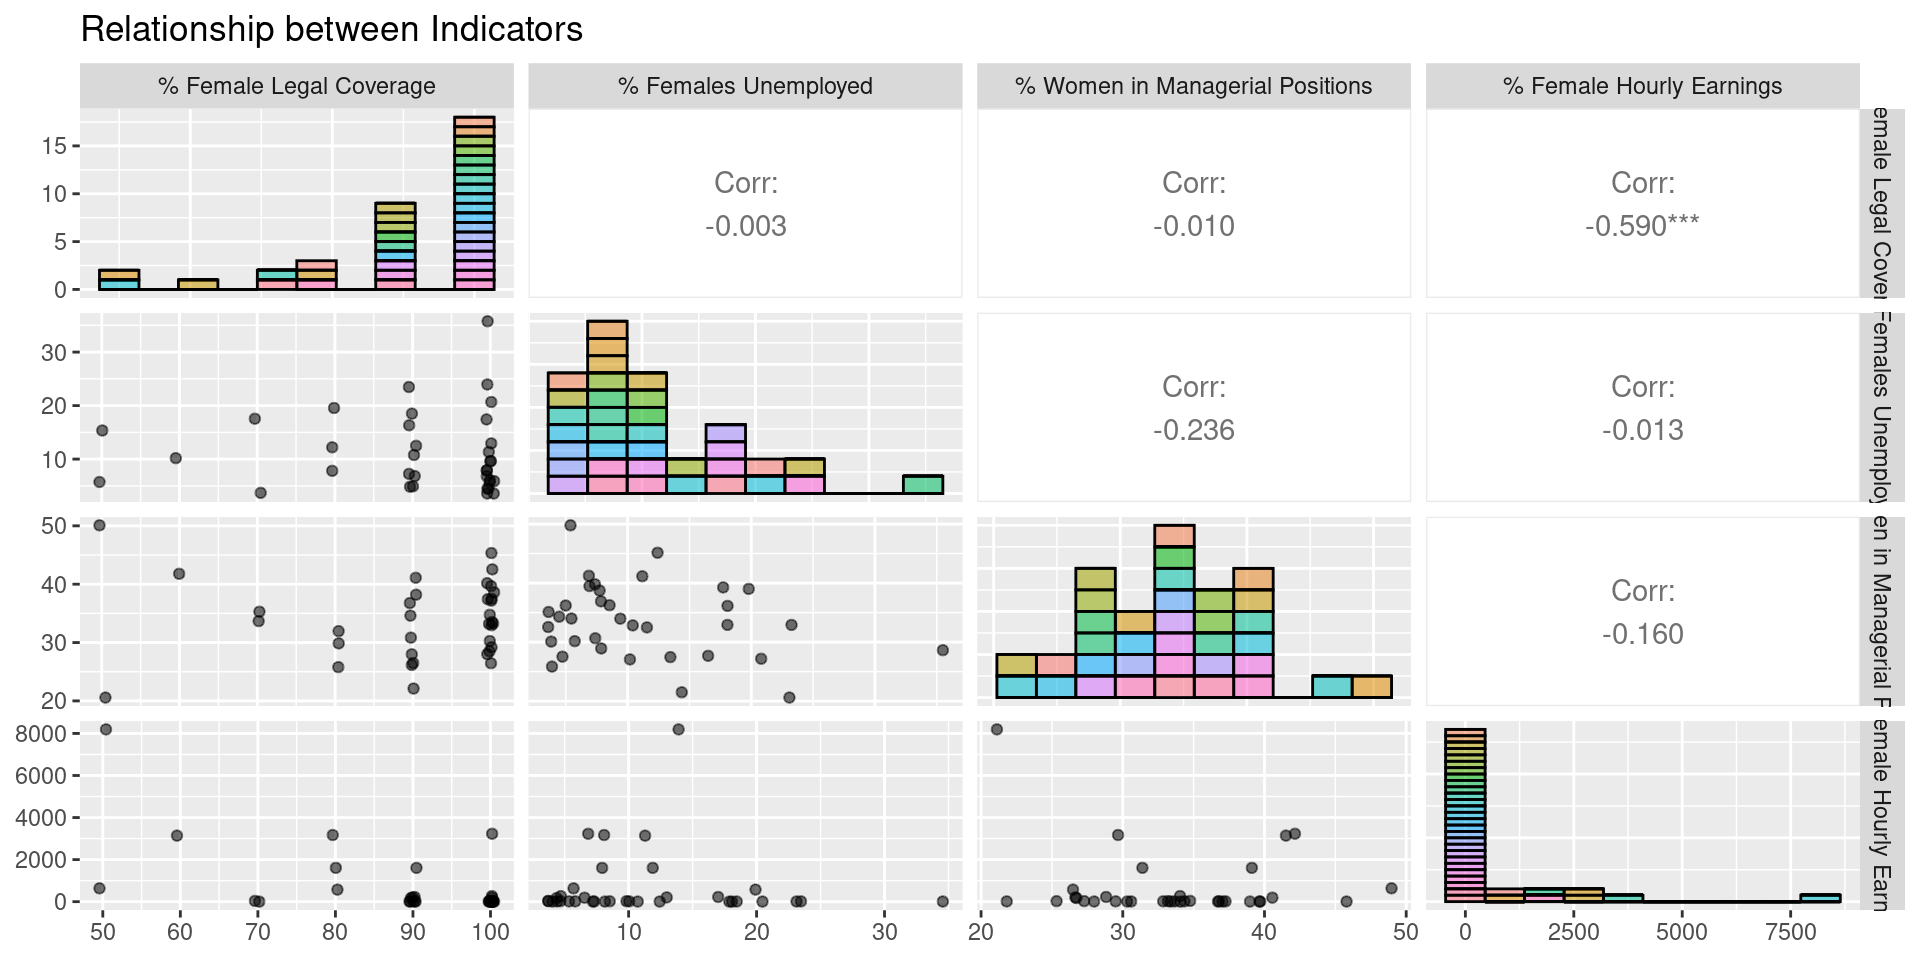
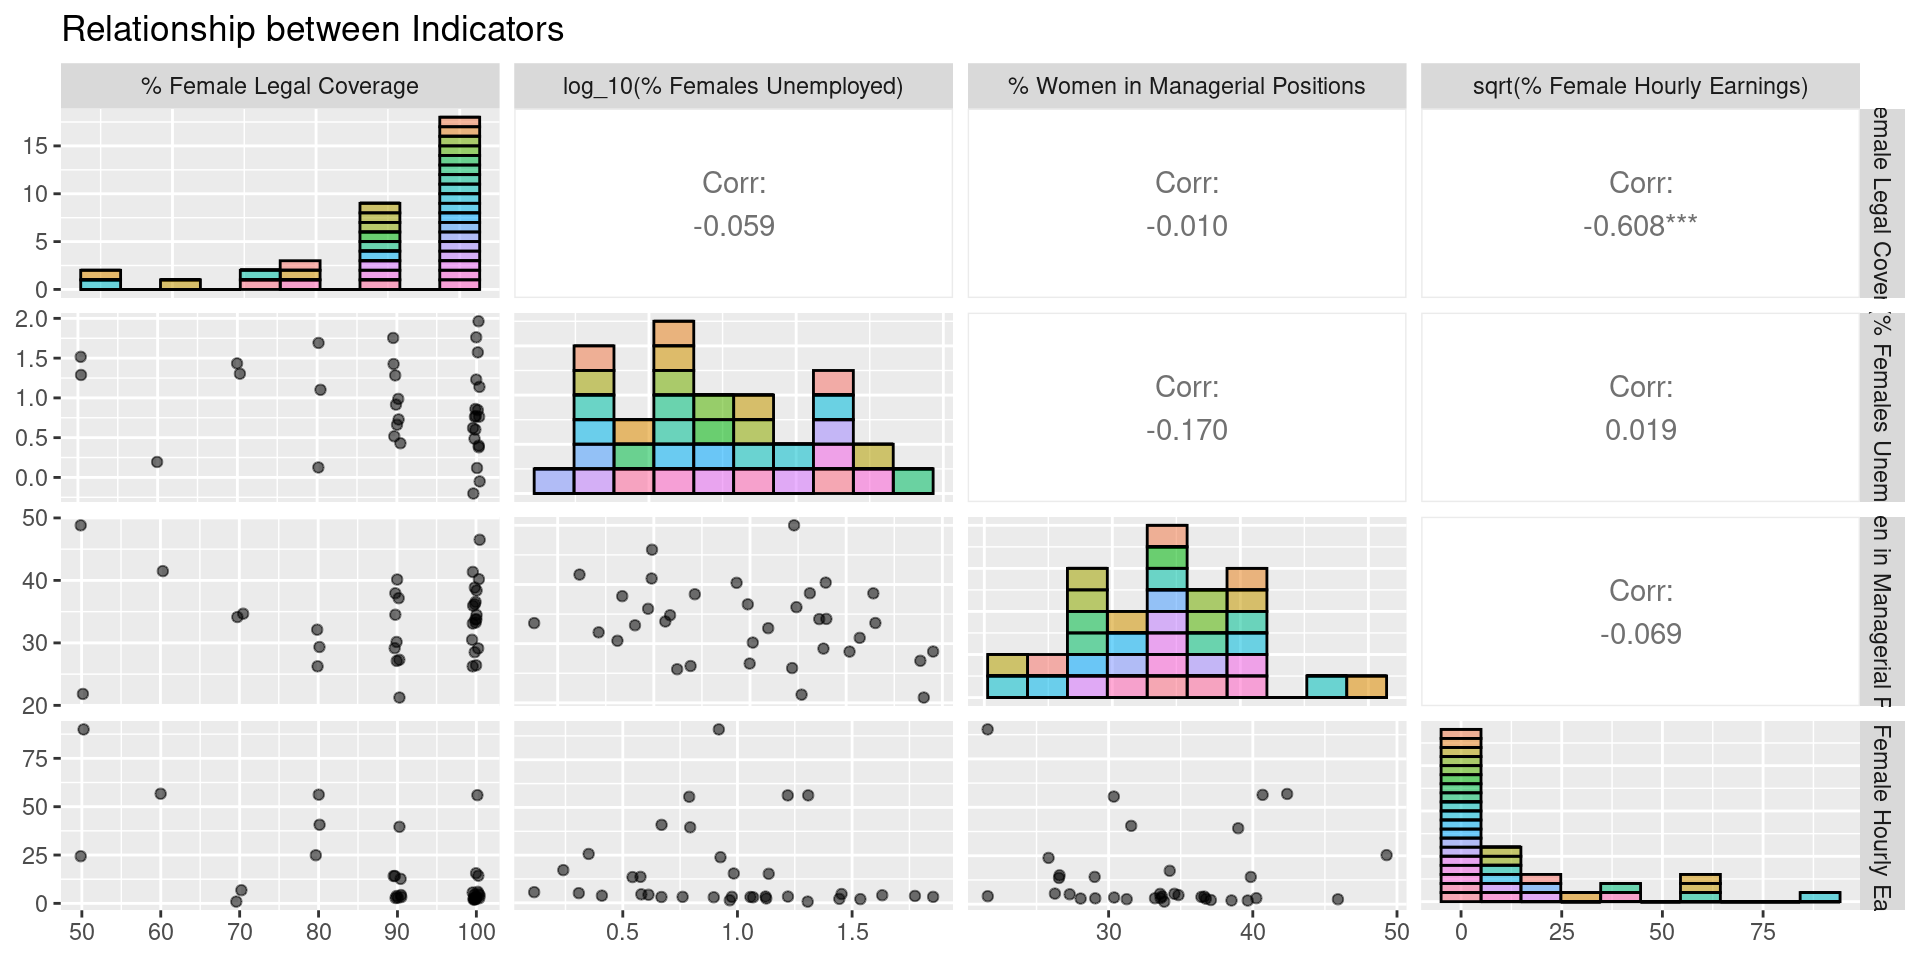
Updated Four-variable pair and k-mean plot with log & sqrt transformation

diff --git a/csc3007-black2/csc3007-black2.html b/csc3007-black2/csc3007-black2.html
@@ -496,12 +496,12 @@ CHIA YI XUAN, TSUI SAU CHI, JEANIE OH JUN NING, VARADHARAJAN JAYAPRIYA, GU JINMI
 <div class="cell">
 
 </div>
-<p>Ten-fold cross validation indicates that the decision tree has a low accuracy of</p>
+<p>Ten-fold cross validation indicates that the decision tree has a low accuracy of “Fill in”</p>
 <p>The relative importance of the predictors for classification are as follows:</p>
 <ul>
 <li>HPI: 1</li>
-<li>Continent: 0.4341865</li>
-<li>GDP size: 0.3025594</li>
+<li>Continent: 0.7463858</li>
+<li>GDP size: 0.5952265</li>
 </ul>
 </section>
 <section id="summary-of-quantitative-results" class="slide level2 center">
@@ -896,112 +896,118 @@ formatted_5_1_1 &lt;- indicator_5_1_1_employment_economic_benefits |&gt;
 /home/jamestsui/Last/CSC3007/project/csc3007-black2/csc3007-black2/csc3007-black2.qmd:709:81: style: [line_length_linter] Lines should not be more than 80 characters.
   select("Country" = geoAreaName, ISO3, "% Female Hourly Earnings" = latest_value) |&gt;
 ~~~~~~~~~~~~~~~~~~~~~~~~~~~~~~~~~~~~~~~~~~~~~~~~~~~~~~~~~~~~~~~~~~~~~~~~~~~~~~~~^~~~~
-/home/jamestsui/Last/CSC3007/project/csc3007-black2/csc3007-black2/csc3007-black2.qmd:726:81: style: [line_length_linter] Lines should not be more than 80 characters.
-                      columns = c("% Female Legal Coverage", "% Females Unemployed", "% Women in Managerial Positions", "% Female Hourly Earnings"),
-~~~~~~~~~~~~~~~~~~~~~~~~~~~~~~~~~~~~~~~~~~~~~~~~~~~~~~~~~~~~~~~~~~~~~~~~~~~~~~~~^~~~~~~~~~~~~~~~~~~~~~~~~~~~~~~~~~~~~~~~~~~~~~~~~~~~~~~~~~~~~~~~~~~~
-/home/jamestsui/Last/CSC3007/project/csc3007-black2/csc3007-black2/csc3007-black2.qmd:727:81: style: [line_length_linter] Lines should not be more than 80 characters.
+/home/jamestsui/Last/CSC3007/project/csc3007-black2/csc3007-black2/csc3007-black2.qmd:719:81: style: [line_length_linter] Lines should not be more than 80 characters.
+# Perform sqrt transformation for "% Female Hourly Earnings" and log transformation for "% Females Unemployed"
+~~~~~~~~~~~~~~~~~~~~~~~~~~~~~~~~~~~~~~~~~~~~~~~~~~~~~~~~~~~~~~~~~~~~~~~~~~~~~~~~^~~~~~~~~~~~~~~~~~~~~~~~~~~~~~
+/home/jamestsui/Last/CSC3007/project/csc3007-black2/csc3007-black2/csc3007-black2.qmd:731:81: style: [line_length_linter] Lines should not be more than 80 characters.
+                      columns = c("% Female Legal Coverage", "log_10(% Females Unemployed)", "% Women in Managerial Positions", "sqrt(% Female Hourly Earnings)"),
+~~~~~~~~~~~~~~~~~~~~~~~~~~~~~~~~~~~~~~~~~~~~~~~~~~~~~~~~~~~~~~~~~~~~~~~~~~~~~~~~^~~~~~~~~~~~~~~~~~~~~~~~~~~~~~~~~~~~~~~~~~~~~~~~~~~~~~~~~~~~~~~~~~~~~~~~~~~~~~~~~~
+/home/jamestsui/Last/CSC3007/project/csc3007-black2/csc3007-black2/csc3007-black2.qmd:732:81: style: [line_length_linter] Lines should not be more than 80 characters.
                       diag = list(continuous = wrap("barDiag", bins = 10, color = "black")),
 ~~~~~~~~~~~~~~~~~~~~~~~~~~~~~~~~~~~~~~~~~~~~~~~~~~~~~~~~~~~~~~~~~~~~~~~~~~~~~~~~^~~~~~~~~~~~
-/home/jamestsui/Last/CSC3007/project/csc3007-black2/csc3007-black2/csc3007-black2.qmd:729:81: style: [line_length_linter] Lines should not be more than 80 characters.
+/home/jamestsui/Last/CSC3007/project/csc3007-black2/csc3007-black2/csc3007-black2.qmd:734:81: style: [line_length_linter] Lines should not be more than 80 characters.
                                                     position = position_jitter(height = 1, width = 0.5),
 ~~~~~~~~~~~~~~~~~~~~~~~~~~~~~~~~~~~~~~~~~~~~~~~~~~~~~~~~~~~~~~~~~~~~~~~~~~~~~~~~^~~~~~~~~~~~~~~~~~~~~~~~
-/home/jamestsui/Last/CSC3007/project/csc3007-black2/csc3007-black2/csc3007-black2.qmd:741:25: style: [trailing_whitespace_linter] Trailing whitespace is superfluous.
+/home/jamestsui/Last/CSC3007/project/csc3007-black2/csc3007-black2/csc3007-black2.qmd:746:25: style: [trailing_whitespace_linter] Trailing whitespace is superfluous.
 # VARADHARAJAN JAYAPRIYA 
                         ^
-/home/jamestsui/Last/CSC3007/project/csc3007-black2/csc3007-black2/csc3007-black2.qmd:742:51: style: [trailing_whitespace_linter] Trailing whitespace is superfluous.
+/home/jamestsui/Last/CSC3007/project/csc3007-black2/csc3007-black2/csc3007-black2.qmd:747:51: style: [trailing_whitespace_linter] Trailing whitespace is superfluous.
 # merge data using left join, and drop all NA rows 
                                                   ^
-/home/jamestsui/Last/CSC3007/project/csc3007-black2/csc3007-black2/csc3007-black2.qmd:744:34: style: [trailing_whitespace_linter] Trailing whitespace is superfluous.
+/home/jamestsui/Last/CSC3007/project/csc3007-black2/csc3007-black2/csc3007-black2.qmd:749:34: style: [trailing_whitespace_linter] Trailing whitespace is superfluous.
 merged_data &lt;- formatted_8_5_2 |&gt;   
                                  ^~~
-/home/jamestsui/Last/CSC3007/project/csc3007-black2/csc3007-black2/csc3007-black2.qmd:745:29: style: [trailing_whitespace_linter] Trailing whitespace is superfluous.
+/home/jamestsui/Last/CSC3007/project/csc3007-black2/csc3007-black2/csc3007-black2.qmd:750:29: style: [trailing_whitespace_linter] Trailing whitespace is superfluous.
   left_join(formatted_5_1_1, 
                             ^
-/home/jamestsui/Last/CSC3007/project/csc3007-black2/csc3007-black2/csc3007-black2.qmd:746:42: style: [trailing_whitespace_linter] Trailing whitespace is superfluous.
+/home/jamestsui/Last/CSC3007/project/csc3007-black2/csc3007-black2/csc3007-black2.qmd:751:42: style: [trailing_whitespace_linter] Trailing whitespace is superfluous.
             by = c("ISO3", "Country")) |&gt;   
                                          ^~~
-/home/jamestsui/Last/CSC3007/project/csc3007-black2/csc3007-black2/csc3007-black2.qmd:747:29: style: [trailing_whitespace_linter] Trailing whitespace is superfluous.
+/home/jamestsui/Last/CSC3007/project/csc3007-black2/csc3007-black2/csc3007-black2.qmd:752:29: style: [trailing_whitespace_linter] Trailing whitespace is superfluous.
   left_join(formatted_5_5_2, 
                             ^
-/home/jamestsui/Last/CSC3007/project/csc3007-black2/csc3007-black2/csc3007-black2.qmd:748:42: style: [trailing_whitespace_linter] Trailing whitespace is superfluous.
+/home/jamestsui/Last/CSC3007/project/csc3007-black2/csc3007-black2/csc3007-black2.qmd:753:42: style: [trailing_whitespace_linter] Trailing whitespace is superfluous.
             by = c("ISO3", "Country")) |&gt;   
                                          ^~~
-/home/jamestsui/Last/CSC3007/project/csc3007-black2/csc3007-black2/csc3007-black2.qmd:749:29: style: [trailing_whitespace_linter] Trailing whitespace is superfluous.
+/home/jamestsui/Last/CSC3007/project/csc3007-black2/csc3007-black2/csc3007-black2.qmd:754:29: style: [trailing_whitespace_linter] Trailing whitespace is superfluous.
   left_join(formatted_8_5_1, 
                             ^
-/home/jamestsui/Last/CSC3007/project/csc3007-black2/csc3007-black2/csc3007-black2.qmd:750:39: style: [trailing_whitespace_linter] Trailing whitespace is superfluous.
+/home/jamestsui/Last/CSC3007/project/csc3007-black2/csc3007-black2/csc3007-black2.qmd:755:39: style: [trailing_whitespace_linter] Trailing whitespace is superfluous.
             by = c("ISO3", "Country")) 
                                       ^
-/home/jamestsui/Last/CSC3007/project/csc3007-black2/csc3007-black2/csc3007-black2.qmd:756:27: style: [trailing_whitespace_linter] Trailing whitespace is superfluous.
+/home/jamestsui/Last/CSC3007/project/csc3007-black2/csc3007-black2/csc3007-black2.qmd:757:81: style: [line_length_linter] Lines should not be more than 80 characters.
+# Perform sqrt transformation for "% Female Hourly Earnings" and log transformation for "% Females Unemployed"
+~~~~~~~~~~~~~~~~~~~~~~~~~~~~~~~~~~~~~~~~~~~~~~~~~~~~~~~~~~~~~~~~~~~~~~~~~~~~~~~~^~~~~~~~~~~~~~~~~~~~~~~~~~~~~~
+/home/jamestsui/Last/CSC3007/project/csc3007-black2/csc3007-black2/csc3007-black2.qmd:762:27: style: [trailing_whitespace_linter] Trailing whitespace is superfluous.
 # Drop rows with NA values 
                           ^
-/home/jamestsui/Last/CSC3007/project/csc3007-black2/csc3007-black2/csc3007-black2.qmd:757:44: style: [trailing_whitespace_linter] Trailing whitespace is superfluous.
+/home/jamestsui/Last/CSC3007/project/csc3007-black2/csc3007-black2/csc3007-black2.qmd:763:44: style: [trailing_whitespace_linter] Trailing whitespace is superfluous.
 normalised_data &lt;- drop_na(normalised_data) 
                                            ^
-/home/jamestsui/Last/CSC3007/project/csc3007-black2/csc3007-black2/csc3007-black2.qmd:759:81: style: [line_length_linter] Lines should not be more than 80 characters.
-normalised_data_cols &lt;- normalised_data[, c("% Female Legal Coverage", "% Females Unemployed", "% Women in Managerial Positions", "% Female Hourly Earnings")]  
-~~~~~~~~~~~~~~~~~~~~~~~~~~~~~~~~~~~~~~~~~~~~~~~~~~~~~~~~~~~~~~~~~~~~~~~~~~~~~~~~^~~~~~~~~~~~~~~~~~~~~~~~~~~~~~~~~~~~~~~~~~~~~~~~~~~~~~~~~~~~~~~~~~~~~~~~~~~~~~~~
-/home/jamestsui/Last/CSC3007/project/csc3007-black2/csc3007-black2/csc3007-black2.qmd:759:159: style: [trailing_whitespace_linter] Trailing whitespace is superfluous.
-normalised_data_cols &lt;- normalised_data[, c("% Female Legal Coverage", "% Females Unemployed", "% Women in Managerial Positions", "% Female Hourly Earnings")]  
-                                                                                                                                                              ^~
-/home/jamestsui/Last/CSC3007/project/csc3007-black2/csc3007-black2/csc3007-black2.qmd:760:14: style: [trailing_whitespace_linter] Trailing whitespace is superfluous.
+/home/jamestsui/Last/CSC3007/project/csc3007-black2/csc3007-black2/csc3007-black2.qmd:765:81: style: [line_length_linter] Lines should not be more than 80 characters.
+normalised_data_cols &lt;- normalised_data[, c("% Female Legal Coverage", "% Females Unemployed", "% Women in Managerial Positions", "sqrt(% Female Hourly Earnings)")]  
+~~~~~~~~~~~~~~~~~~~~~~~~~~~~~~~~~~~~~~~~~~~~~~~~~~~~~~~~~~~~~~~~~~~~~~~~~~~~~~~~^~~~~~~~~~~~~~~~~~~~~~~~~~~~~~~~~~~~~~~~~~~~~~~~~~~~~~~~~~~~~~~~~~~~~~~~~~~~~~~~~~~~~~
+/home/jamestsui/Last/CSC3007/project/csc3007-black2/csc3007-black2/csc3007-black2.qmd:765:165: style: [trailing_whitespace_linter] Trailing whitespace is superfluous.
+normalised_data_cols &lt;- normalised_data[, c("% Female Legal Coverage", "% Females Unemployed", "% Women in Managerial Positions", "sqrt(% Female Hourly Earnings)")]  
+                                                                                                                                                                    ^~
+/home/jamestsui/Last/CSC3007/project/csc3007-black2/csc3007-black2/csc3007-black2.qmd:766:14: style: [trailing_whitespace_linter] Trailing whitespace is superfluous.
 set.seed(123) 
              ^
-/home/jamestsui/Last/CSC3007/project/csc3007-black2/csc3007-black2/csc3007-black2.qmd:786:1: style: [object_name_linter] Variable and function name style should be snake_case or symbols.
-km.out &lt;- kmeans(normalised_data_cols, centers = 3, nstart = 20)
+/home/jamestsui/Last/CSC3007/project/csc3007-black2/csc3007-black2/csc3007-black2.qmd:792:1: style: [object_name_linter] Variable and function name style should be snake_case or symbols.
+km.out &lt;- kmeans(normalised_data_cols, centers = 2, nstart = 20)
 ^~~~~~
-/home/jamestsui/Last/CSC3007/project/csc3007-black2/csc3007-black2/csc3007-black2.qmd:793:81: style: [line_length_linter] Lines should not be more than 80 characters.
-        columns = c("% Female Legal Coverage", "% Females Unemployed", "% Women in Managerial Positions", "log(% Female Hourly Earnings)"),
-~~~~~~~~~~~~~~~~~~~~~~~~~~~~~~~~~~~~~~~~~~~~~~~~~~~~~~~~~~~~~~~~~~~~~~~~~~~~~~~~^~~~~~~~~~~~~~~~~~~~~~~~~~~~~~~~~~~~~~~~~~~~~~~~~~~~~~~~~~~
-/home/jamestsui/Last/CSC3007/project/csc3007-black2/csc3007-black2/csc3007-black2.qmd:798:81: style: [line_length_linter] Lines should not be more than 80 characters.
+/home/jamestsui/Last/CSC3007/project/csc3007-black2/csc3007-black2/csc3007-black2.qmd:799:81: style: [line_length_linter] Lines should not be more than 80 characters.
+        columns = c("% Female Legal Coverage", "log_10(% Females Unemployed)", "% Women in Managerial Positions", "sqrt(% Female Hourly Earnings)"),
+~~~~~~~~~~~~~~~~~~~~~~~~~~~~~~~~~~~~~~~~~~~~~~~~~~~~~~~~~~~~~~~~~~~~~~~~~~~~~~~~^~~~~~~~~~~~~~~~~~~~~~~~~~~~~~~~~~~~~~~~~~~~~~~~~~~~~~~~~~~~~~~~~~~~
+/home/jamestsui/Last/CSC3007/project/csc3007-black2/csc3007-black2/csc3007-black2.qmd:804:81: style: [line_length_linter] Lines should not be more than 80 characters.
                                        position = position_jitter(height = 1, width = 0.5),
 ~~~~~~~~~~~~~~~~~~~~~~~~~~~~~~~~~~~~~~~~~~~~~~~~~~~~~~~~~~~~~~~~~~~~~~~~~~~~~~~~^~~~~~~~~~~
-/home/jamestsui/Last/CSC3007/project/csc3007-black2/csc3007-black2/csc3007-black2.qmd:813:26: style: [trailing_whitespace_linter] Trailing whitespace is superfluous.
+/home/jamestsui/Last/CSC3007/project/csc3007-black2/csc3007-black2/csc3007-black2.qmd:819:26: style: [trailing_whitespace_linter] Trailing whitespace is superfluous.
 # Load Country Level Data 
                          ^
-/home/jamestsui/Last/CSC3007/project/csc3007-black2/csc3007-black2/csc3007-black2.qmd:815:21: style: [trailing_whitespace_linter] Trailing whitespace is superfluous.
+/home/jamestsui/Last/CSC3007/project/csc3007-black2/csc3007-black2/csc3007-black2.qmd:821:21: style: [trailing_whitespace_linter] Trailing whitespace is superfluous.
 # Step1: Import Data 
                     ^
-/home/jamestsui/Last/CSC3007/project/csc3007-black2/csc3007-black2/csc3007-black2.qmd:816:81: style: [line_length_linter] Lines should not be more than 80 characters.
+/home/jamestsui/Last/CSC3007/project/csc3007-black2/csc3007-black2/csc3007-black2.qmd:822:81: style: [line_length_linter] Lines should not be more than 80 characters.
 happy_index &lt;- read_excel("data/happy-planet-index-2006-2020-public-data-set.xlsx", sheet = 2, skip = 7)
 ~~~~~~~~~~~~~~~~~~~~~~~~~~~~~~~~~~~~~~~~~~~~~~~~~~~~~~~~~~~~~~~~~~~~~~~~~~~~~~~~^~~~~~~~~~~~~~~~~~~~~~~~
-/home/jamestsui/Last/CSC3007/project/csc3007-black2/csc3007-black2/csc3007-black2.qmd:856:25: warning: [seq_linter] 1:nrow(...) is likely to be wrong in the empty edge case. Use seq_len(nrow(...)) instead.
+/home/jamestsui/Last/CSC3007/project/csc3007-black2/csc3007-black2/csc3007-black2.qmd:862:25: warning: [seq_linter] 1:nrow(...) is likely to be wrong in the empty edge case. Use seq_len(nrow(...)) instead.
 shuffle_index &lt;- sample(1:nrow(merged_data))
                         ^~~~~~~~~~~~~~~~~~~
-/home/jamestsui/Last/CSC3007/project/csc3007-black2/csc3007-black2/csc3007-black2.qmd:866:26: style: [infix_spaces_linter] Put spaces around all infix operators.
-tree &lt;- rpart(cluster_id ~., data = train_data, method="class", minsplit=3, minbucket=1)
+/home/jamestsui/Last/CSC3007/project/csc3007-black2/csc3007-black2/csc3007-black2.qmd:872:26: style: [infix_spaces_linter] Put spaces around all infix operators.
+tree &lt;- rpart(cluster_id ~., data = train_data, method="class", minsplit=5, minbucket=1)
                          ^
-/home/jamestsui/Last/CSC3007/project/csc3007-black2/csc3007-black2/csc3007-black2.qmd:866:55: style: [infix_spaces_linter] Put spaces around all infix operators.
-tree &lt;- rpart(cluster_id ~., data = train_data, method="class", minsplit=3, minbucket=1)
+/home/jamestsui/Last/CSC3007/project/csc3007-black2/csc3007-black2/csc3007-black2.qmd:872:55: style: [infix_spaces_linter] Put spaces around all infix operators.
+tree &lt;- rpart(cluster_id ~., data = train_data, method="class", minsplit=5, minbucket=1)
                                                       ^
-/home/jamestsui/Last/CSC3007/project/csc3007-black2/csc3007-black2/csc3007-black2.qmd:866:73: style: [infix_spaces_linter] Put spaces around all infix operators.
-tree &lt;- rpart(cluster_id ~., data = train_data, method="class", minsplit=3, minbucket=1)
+/home/jamestsui/Last/CSC3007/project/csc3007-black2/csc3007-black2/csc3007-black2.qmd:872:73: style: [infix_spaces_linter] Put spaces around all infix operators.
+tree &lt;- rpart(cluster_id ~., data = train_data, method="class", minsplit=5, minbucket=1)
                                                                         ^
-/home/jamestsui/Last/CSC3007/project/csc3007-black2/csc3007-black2/csc3007-black2.qmd:866:81: style: [line_length_linter] Lines should not be more than 80 characters.
-tree &lt;- rpart(cluster_id ~., data = train_data, method="class", minsplit=3, minbucket=1)
+/home/jamestsui/Last/CSC3007/project/csc3007-black2/csc3007-black2/csc3007-black2.qmd:872:81: style: [line_length_linter] Lines should not be more than 80 characters.
+tree &lt;- rpart(cluster_id ~., data = train_data, method="class", minsplit=5, minbucket=1)
 ~~~~~~~~~~~~~~~~~~~~~~~~~~~~~~~~~~~~~~~~~~~~~~~~~~~~~~~~~~~~~~~~~~~~~~~~~~~~~~~~^~~~~~~~
-/home/jamestsui/Last/CSC3007/project/csc3007-black2/csc3007-black2/csc3007-black2.qmd:866:86: style: [infix_spaces_linter] Put spaces around all infix operators.
-tree &lt;- rpart(cluster_id ~., data = train_data, method="class", minsplit=3, minbucket=1)
+/home/jamestsui/Last/CSC3007/project/csc3007-black2/csc3007-black2/csc3007-black2.qmd:872:86: style: [infix_spaces_linter] Put spaces around all infix operators.
+tree &lt;- rpart(cluster_id ~., data = train_data, method="class", minsplit=5, minbucket=1)
                                                                                      ^
-/home/jamestsui/Last/CSC3007/project/csc3007-black2/csc3007-black2/csc3007-black2.qmd:867:29: style: [infix_spaces_linter] Put spaces around all infix operators.
+/home/jamestsui/Last/CSC3007/project/csc3007-black2/csc3007-black2/csc3007-black2.qmd:873:29: style: [infix_spaces_linter] Put spaces around all infix operators.
 rpart.plot(tree, box.palette="GnRd")
                             ^
-/home/jamestsui/Last/CSC3007/project/csc3007-black2/csc3007-black2/csc3007-black2.qmd:880:27: style: [infix_spaces_linter] Put spaces around all infix operators.
-model &lt;- train(cluster_id ~., data = merged_data, method = "rpart", trControl = ctrl, minsplit=1, minbucket=1)
+/home/jamestsui/Last/CSC3007/project/csc3007-black2/csc3007-black2/csc3007-black2.qmd:886:27: style: [infix_spaces_linter] Put spaces around all infix operators.
+model &lt;- train(cluster_id ~., data = merged_data, method = "rpart", trControl = ctrl, minsplit=5, minbucket=1)
                           ^
-/home/jamestsui/Last/CSC3007/project/csc3007-black2/csc3007-black2/csc3007-black2.qmd:880:81: style: [line_length_linter] Lines should not be more than 80 characters.
-model &lt;- train(cluster_id ~., data = merged_data, method = "rpart", trControl = ctrl, minsplit=1, minbucket=1)
+/home/jamestsui/Last/CSC3007/project/csc3007-black2/csc3007-black2/csc3007-black2.qmd:886:81: style: [line_length_linter] Lines should not be more than 80 characters.
+model &lt;- train(cluster_id ~., data = merged_data, method = "rpart", trControl = ctrl, minsplit=5, minbucket=1)
 ~~~~~~~~~~~~~~~~~~~~~~~~~~~~~~~~~~~~~~~~~~~~~~~~~~~~~~~~~~~~~~~~~~~~~~~~~~~~~~~~^~~~~~~~~~~~~~~~~~~~~~~~~~~~~~
-/home/jamestsui/Last/CSC3007/project/csc3007-black2/csc3007-black2/csc3007-black2.qmd:880:95: style: [infix_spaces_linter] Put spaces around all infix operators.
-model &lt;- train(cluster_id ~., data = merged_data, method = "rpart", trControl = ctrl, minsplit=1, minbucket=1)
+/home/jamestsui/Last/CSC3007/project/csc3007-black2/csc3007-black2/csc3007-black2.qmd:886:95: style: [infix_spaces_linter] Put spaces around all infix operators.
+model &lt;- train(cluster_id ~., data = merged_data, method = "rpart", trControl = ctrl, minsplit=5, minbucket=1)
                                                                                               ^
-/home/jamestsui/Last/CSC3007/project/csc3007-black2/csc3007-black2/csc3007-black2.qmd:880:108: style: [infix_spaces_linter] Put spaces around all infix operators.
-model &lt;- train(cluster_id ~., data = merged_data, method = "rpart", trControl = ctrl, minsplit=1, minbucket=1)
+/home/jamestsui/Last/CSC3007/project/csc3007-black2/csc3007-black2/csc3007-black2.qmd:886:108: style: [infix_spaces_linter] Put spaces around all infix operators.
+model &lt;- train(cluster_id ~., data = merged_data, method = "rpart", trControl = ctrl, minsplit=5, minbucket=1)
                                                                                                            ^
-/home/jamestsui/Last/CSC3007/project/csc3007-black2/csc3007-black2/csc3007-black2.qmd:885:11: warning: [seq_linter] 1:length(...) is likely to be wrong in the empty edge case. Use seq_along(...) instead.
+/home/jamestsui/Last/CSC3007/project/csc3007-black2/csc3007-black2/csc3007-black2.qmd:891:11: warning: [seq_linter] 1:length(...) is likely to be wrong in the empty edge case. Use seq_along(...) instead.
 for (i in 1:length(tree$variable.importance)) {
           ^~~~~~~~~~~~~~~~~~~~~~~~~~~~~~~~~~
-/home/jamestsui/Last/CSC3007/project/csc3007-black2/csc3007-black2/csc3007-black2.qmd:886:81: style: [line_length_linter] Lines should not be more than 80 characters.
+/home/jamestsui/Last/CSC3007/project/csc3007-black2/csc3007-black2/csc3007-black2.qmd:892:81: style: [line_length_linter] Lines should not be more than 80 characters.
   relative_importance[i] &lt;- tree$variable.importance[i] / tree$variable.importance[1]
 ~~~~~~~~~~~~~~~~~~~~~~~~~~~~~~~~~~~~~~~~~~~~~~~~~~~~~~~~~~~~~~~~~~~~~~~~~~~~~~~~^~~~~</code></pre>
 </div>
